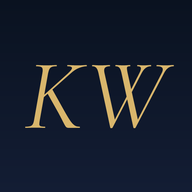
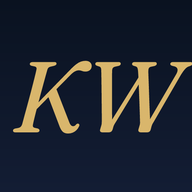
feat: set the display serif in fraunces, after domaine
Replace EB Garamond with variable Fraunces (wght+opsz, automatic
optical sizing: text cut in the essay prose, display cut in the big
italics). The static woff feeds the OG renderer and the regenerated KW
icons; generate-icons.ts had still been pointing at the uninstalled
Cormorant package. Headline budgets measured and kept unchanged;
colophon, README, llms.txt, humans.txt updated.

Changed region(s): [[0.3125, 0.3125, 1.0, 0.7188], [0.0625, 0.3125, 0.4375, 0.7188]]

diff --git a/src/lib/server/og.ts b/src/lib/server/og.ts
@@ -21,8 +21,8 @@ function loadFont(...candidates: string[]): Buffer | null {
 const plexRegular = loadFont(
 	join(ROOT, 'node_modules/@fontsource/ibm-plex-sans/files/ibm-plex-sans-latin-400-normal.woff')
 );
-const garamondItalic = loadFont(
-	join(ROOT, 'node_modules/@fontsource/eb-garamond/files/eb-garamond-latin-400-italic.woff')
+const frauncesItalic = loadFont(
+	join(ROOT, 'node_modules/@fontsource/fraunces/files/fraunces-latin-400-italic.woff')
 );
 
 // eslint-disable-next-line @typescript-eslint/no-explicit-any
@@ -65,7 +65,7 @@ export type OgCard = {
 	palette: OgPalette;
 	/** small uppercase line above the headline */
 	eyebrow?: string;
-	/** the big EB Garamond italic lines */
+	/** the big Fraunces italic lines */
 	headline: string[];
 	/** normal-weight line under the headline */
 	sub?: string;
@@ -102,7 +102,7 @@ export async function renderOgPng(card: OgCard): Promise<Uint8Array<ArrayBuffer>
 				{
 					style: {
 						display: 'flex',
-						fontFamily: '"EB Garamond", serif',
+						fontFamily: '"Fraunces", serif',
 						fontStyle: 'italic',
 						fontSize: '56px',
 						color: c.accent,
@@ -143,7 +143,7 @@ export async function renderOgPng(card: OgCard): Promise<Uint8Array<ArrayBuffer>
 					style: {
 						display: 'flex',
 						flexDirection: 'column',
-						fontFamily: '"EB Garamond", serif',
+						fontFamily: '"Fraunces", serif',
 						fontStyle: 'italic',
 						fontSize: `${size}px`,
 						lineHeight: 1.08,
@@ -184,10 +184,10 @@ export async function renderOgPng(card: OgCard): Promise<Uint8Array<ArrayBuffer>
 	const fonts: { name: string; data: Buffer; weight: 400; style: 'normal' | 'italic' }[] = [];
 	if (plexRegular)
 		fonts.push({ name: 'IBM Plex Sans', data: plexRegular, weight: 400, style: 'normal' });
-	if (garamondItalic)
+	if (frauncesItalic)
 		fonts.push({
-			name: 'EB Garamond',
-			data: garamondItalic,
+			name: 'Fraunces',
+			data: frauncesItalic,
 			weight: 400,
 			style: 'italic'
 		});
@@ -199,8 +199,9 @@ export async function renderOgPng(card: OgCard): Promise<Uint8Array<ArrayBuffer>
 /** Break a title into 1–3 lines that fit the card, and pick a size. */
 export function layoutHeadline(title: string): { lines: string[]; size: number } {
 	const size = title.length > 70 ? 60 : title.length > 45 ? 68 : title.length > 26 ? 80 : 96;
-	// Rough character budget per line at each size (EB Garamond italic,
-	// 1000px box — it sets wider than Cormorant did, hence the tight caps).
+	// Rough character budget per line at each size (Fraunces italic,
+	// 1000px box). Measured 2026-08-06: title-case lines fit ~22/26/31/35,
+	// so EB Garamond's budgets carry over unchanged.
 	const budget = size >= 96 ? 21 : size >= 80 ? 26 : size >= 68 ? 30 : 35;
 
 	const words = title.split(' ');

diff --git a/scripts/generate-icons.ts b/scripts/generate-icons.ts
@@ -3,7 +3,7 @@
  * Generate the PNG icons that SVG can't cover:
  *   - apple-touch-icon.png (180×180, iOS home screen ignores SVG)
  *   - icon-192.png / icon-512.png (web app manifest)
- * The mark is the site wordmark — "KW" in Cormorant Garamond italic gold on
+ * The mark is the site wordmark — "KW" in Fraunces italic gold on
  * the home room's night blue — matching the header and the OG cards.
  * Run after changing branding: bun run scripts/generate-icons.ts
  */
@@ -15,10 +15,8 @@ import sharp from 'sharp';
 
 const OUT = path.resolve('static');
 
-const cormorant = readFileSync(
-	path.resolve(
-		'node_modules/@fontsource/cormorant-garamond/files/cormorant-garamond-latin-400-italic.woff'
-	)
+const fraunces = readFileSync(
+	path.resolve('node_modules/@fontsource/fraunces/files/fraunces-latin-400-italic.woff')
 );
 
 const node = {
@@ -31,7 +29,7 @@ const node = {
 			alignItems: 'center',
 			justifyContent: 'center',
 			background: 'linear-gradient(180deg, #0a1220 0%, #131d34 100%)',
-			fontFamily: '"Cormorant Garamond", serif',
+			fontFamily: '"Fraunces", serif',
 			fontStyle: 'italic',
 			fontSize: '268px',
 			color: '#d9b66c'
@@ -43,7 +41,7 @@ const node = {
 const svg = await satori(node, {
 	width: 512,
 	height: 512,
-	fonts: [{ name: 'Cormorant Garamond', data: cormorant, weight: 400, style: 'italic' }]
+	fonts: [{ name: 'Fraunces', data: fraunces, weight: 400, style: 'italic' }]
 });
 const master = new Resvg(svg).render().asPng();
 

diff --git a/src/app.css b/src/app.css
@@ -117,12 +117,15 @@
 /* ---------- Typography stack ----------
    Two families, one role each:
    · body    = IBM Plex Sans (sans: labels, notes, smallcaps, UI)
-   · display = EB Garamond   (serif: headings, dropcaps, logo, buttons, essay prose)
-   One weight per family (400); Plex 600 only for smallcaps labels. */
+   · display = Fraunces      (serif: headings, dropcaps, logo, buttons, essay prose)
+   One weight per family (400); Plex 600 only for smallcaps labels.
+   Fraunces is variable (wght + opsz): optical sizing is automatic, so
+   prose gets the sturdy text cut and big headings the high-contrast
+   display cut. SOFT/WONK stay at their 0 defaults. */
 :root {
 	--font-body:
 		'IBM Plex Sans', -apple-system, BlinkMacSystemFont, 'Segoe UI', Roboto, system-ui, sans-serif;
-	--font-display: 'EB Garamond', Georgia, 'Times New Roman', ui-serif, serif;
+	--font-display: 'Fraunces Variable', Georgia, 'Times New Roman', ui-serif, serif;
 }
 
 @theme inline {

diff --git a/src/routes/+layout.svelte b/src/routes/+layout.svelte
@@ -3,8 +3,8 @@
 	import '@fontsource/ibm-plex-sans/400.css';
 	import '@fontsource/ibm-plex-sans/400-italic.css';
 	import '@fontsource/ibm-plex-sans/600.css';
-	import '@fontsource/eb-garamond/400.css';
-	import '@fontsource/eb-garamond/400-italic.css';
+	import '@fontsource-variable/fraunces/standard.css';
+	import '@fontsource-variable/fraunces/standard-italic.css';
 
 	import { page } from '$app/stores';
 	import { onNavigate } from '$app/navigation';
@@ -309,7 +309,7 @@
 						{site.name} <span lang="ar" class="not-italic">{site.nameArabic}</span> ·
 						{site.role},&nbsp;{site.location.city},&nbsp;{site.location.country}
 					</div>
-					<div class="smallcaps">mmxxvi · set in eb garamond &amp; ibm plex</div>
+					<div class="smallcaps">mmxxvi · set in fraunces &amp; ibm plex</div>
 				</div>
 				<nav
 					aria-label="Elsewhere"

diff --git a/README.md b/README.md
@@ -23,16 +23,16 @@ Almost everything is **prerendered to static HTML** at build time. The single ex
 
 ## Tech stack
 
-| Concern      | Choice                                                                                                                    |
-| ------------ | ------------------------------------------------------------------------------------------------------------------------- |
-| Framework    | [SvelteKit 2](https://svelte.dev/docs/kit) with Svelte 5 runes                                                            |
-| Styling      | [Tailwind CSS 4](https://tailwindcss.com) + `@tailwindcss/typography`                                                     |
-| Content      | [mdsvex](https://mdsvex.pngwn.io) (`.svx`) for writing                                                                    |
-| Language     | TypeScript                                                                                                                |
-| OG images    | [satori](https://github.com/vercel/satori) + resvg (generated at build)                                                   |
-| Fonts        | Self-hosted [Inter](https://rsms.me/inter/) + [EB Garamond](https://fonts.google.com/specimen/EB+Garamond) via Fontsource |
-| Runtime / PM | [Bun](https://bun.sh)                                                                                                     |
-| Hosting      | [Cloudflare Pages](https://pages.cloudflare.com) (`@sveltejs/adapter-cloudflare`)                                         |
+| Concern      | Choice                                                                                                                                               |
+| ------------ | ---------------------------------------------------------------------------------------------------------------------------------------------------- |
+| Framework    | [SvelteKit 2](https://svelte.dev/docs/kit) with Svelte 5 runes                                                                                       |
+| Styling      | [Tailwind CSS 4](https://tailwindcss.com) + `@tailwindcss/typography`                                                                                |
+| Content      | [mdsvex](https://mdsvex.pngwn.io) (`.svx`) for writing                                                                                               |
+| Language     | TypeScript                                                                                                                                           |
+| OG images    | [satori](https://github.com/vercel/satori) + resvg (generated at build)                                                                              |
+| Fonts        | Self-hosted [Fraunces](https://fonts.google.com/specimen/Fraunces) + [IBM Plex Sans](https://fonts.google.com/specimen/IBM+Plex+Sans) via Fontsource |
+| Runtime / PM | [Bun](https://bun.sh)                                                                                                                                |
+| Hosting      | [Cloudflare Pages](https://pages.cloudflare.com) (`@sveltejs/adapter-cloudflare`)                                                                    |
 
 ## Getting started
 
